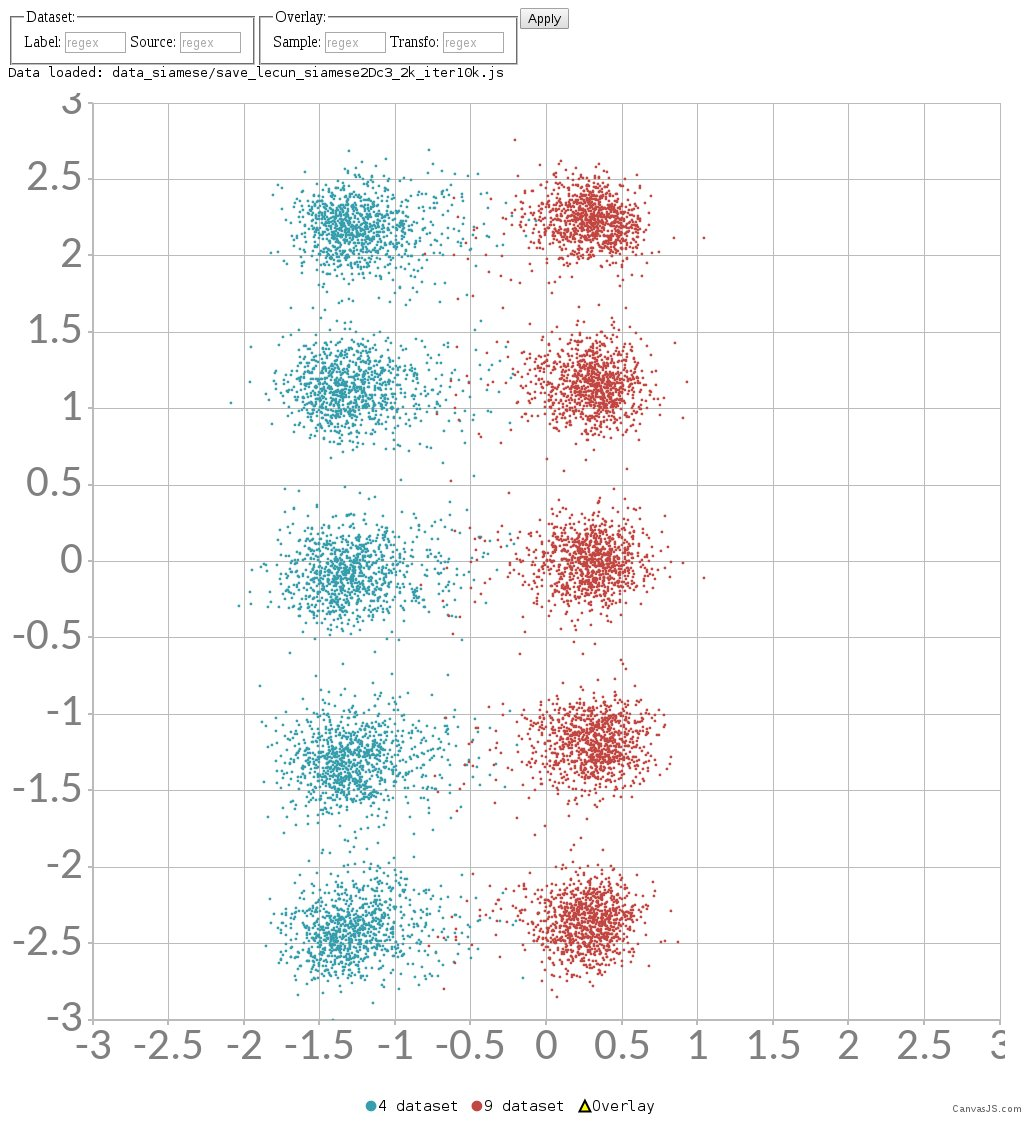
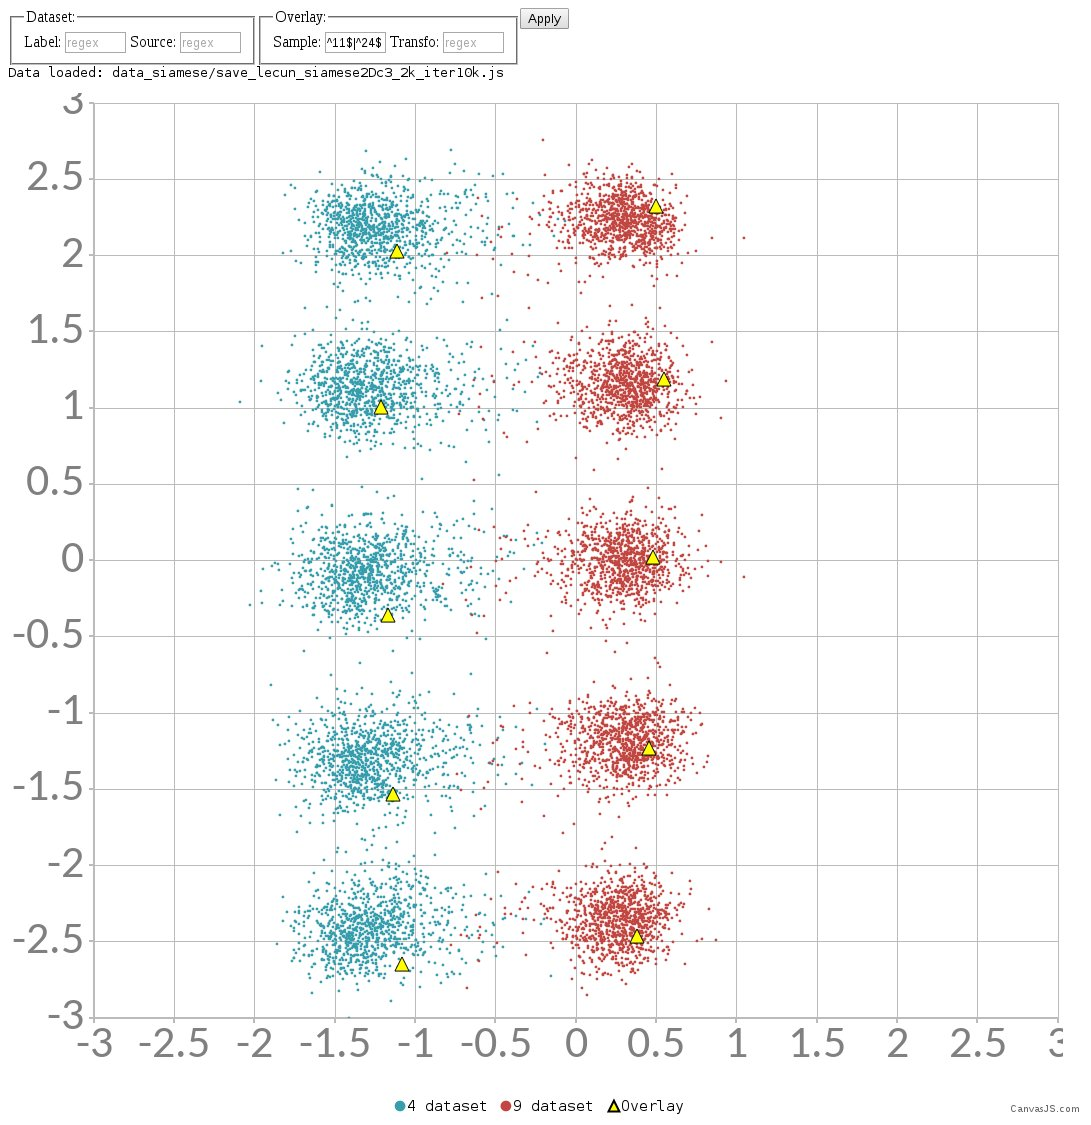
thesis

diff --git a/report/thesis.tex b/report/thesis.tex
@@ -13,7 +13,7 @@
 \usepackage{graphicx}
 \usepackage{lastpage}
 \usepackage{cite}
-\usepackage{hyperref}
+\usepackage[pdftex]{hyperref}
 \usepackage{caption}
 \usepackage{subcaption}
 
@@ -41,11 +41,15 @@
 \rfoot{Page \thepage\ of \pageref{LastPage}}
 \lfoot{\mydate}
 
-\pdfinfo{
-    /Author (\myname)
-    /Title (\mytitle)
-    /Subject (\mysubtitle)
-    }
+\makeatletter
+\AtBeginDocument{
+  \hypersetup{
+    pdfauthor = {\myname},
+    pdftitle = {\mytitle},
+    pdfsubject = {\mysubtitle},
+  }
+}
+\makeatother
 
 \newcommand{\eg}{e.g.}
 \setkeys{Gin}{width=0.75\textwidth}
@@ -695,7 +699,7 @@ Then t-SNE is impacted by clustering translations first, then digits as its seco
 One important insight is that t-SNE represents hierarchal structures with decreasing importance due to its optimization formulation thus the most discriminative features would be weighted more.
 % FIXME: check this claim
 
-We found these results are unexpected: the clusters are not well separated and they are lacking in coherence.
+We consider these results unexpected: the clusters are not well separated and they are lacking in coherence even though the task require to separate the digits.
 This experiment is meant to create an invariant model for classification but the representation of the fingerprint doesn't naturally split digits and translations into different axes.
 We have to repeat again that t-SNE is oriented towards visualization whose goal is not formally and universally well defined.
 The current formulation of this method is to preserve distances between the fingerprints of our models which is not sufficient for our application.
@@ -727,16 +731,21 @@ To compare with our reference results, we train for each one a network in the or
 \end{figure*}
 
 The first dataset is a subset of MNIST containing only 4s and 9s digits which we derive our training and testing set based on our 2D pairing strategy.
+Therefore the resulting dataset is composed of each sample plus its translations (±3, ±6 pixels) which is then paired.
+The models are trained until the loss on the respective testset has attained a reasonable local minima.
 After around $100$ iterations, both models have reasonably converged to a stable solution (see figure \ref{fig:mnist_cl2d_loss}).
-However, our model has reached a lower solution than DrLIM: comparing them directly is not possible because the two datasets are different but the difference in the loss is more important and converge as quickly in our case.
+However, our model has reached a lower solution than DrLIM: comparing them directly is not possible because the two datasets are different but the difference in the loss in our model is more important and converge as quickly.
+Intuitively this means that our problem formulation is easier to solve and the model finds a ``better'' solution, in the sense it could satisfy more our constraints.
 The resulting embedding are shown in figures: \ref{fig:mnist_cl_drlim} for DrLIM and \ref{fig:mnist_cl2d} for our model.
-%show plot embedding on test set. see figure \ref{fig:mnist_cl2d}.
-%give loss function, graph?
-describe clusters, well separated.
-coherent embedding inside clusters.
-converge faster?
-compare DrLIM and ours.
-give quantitative results.
+The DrLIM embedding we reproduced is very similar to the excepted result of having a coherent grouping based on translation-agnostic similarity, however the separation between digits is more pronounced.
+We can look at the DrLIM as a top-down projection of our 3D embedding in 2D where the additional vertical dimension quantify the displacement.
+The different intensity of translations are well separated into their own cluster as demonstrated by a meticulous manual inspection and remarkably they are ordered vertically by their intensity.
+Once again, the space inside clusters is well organized by digit features like DrLIM.
+
+In order to compare the two methods, we present quantitative measures where the contrastive loss is computed on the DrLIM paired testset as described in the methodology.
+Evolutions of this measure during training are plotted in figure \ref{fig:loss_test_common} and the final losses after 10'000 iterations are: $0.160023$ (DrLIM) and 0.145418 (our model).
+These two loss series are statistically indistinguishable validated by the null hypothesis with a t-test with $\alpha = 0.05$.
+Therefore we can conclude our model learns an equivalent representation in its 2D digit-projection to DrLIM with a slightly different formulation and it can expresses distortions without loosing information in its 3rd dimension at the same time.
 
 \begin{figure}[t]
     \centering
@@ -747,19 +756,39 @@ give quantitative results.
 
 \begin{figure*}[t]
     \centering
-    \begin{subfigure}[t]{0.75\textwidth}
+    \begin{subfigure}[t]{0.7\textwidth}
         \centering
         \includegraphics{thesis_figures/mnist_cl2d.jpg}
-        %\caption{Scatter plot of the embedding}
+        \caption{Scatter plot of the embedding with two samples' distortions shown as triangles.}
     \end{subfigure}
-    \begin{subfigure}[t]{0.75\textwidth}
+    \begin{subfigure}[t]{0.7\textwidth}
         \centering
         \includegraphics{thesis_figures/mnist_cl2d2.jpg}
-        %\caption{Scatter plot of the embedding with some samples}
+        \caption{Scatter plot of the embedding with some samples}
     \end{subfigure}
     \caption{Plot of the embedding of our network on the MNIST data-augmented test set projected in 2D.}
     \label{fig:mnist_cl2d}
 \end{figure*}
+
+\begin{figure}[t]
+    \begin{center}
+        \includegraphics{thesis_figures/final_loss_test2bv7.jpg}
+    \end{center}
+    \caption{Quantitative measures of DrLIM and our model during training iterations (MNIST)}
+    \label{fig:loss_test_common}
+\end{figure}
+
+We tested our model on a data-augmentation of MNIST based on rotations as well.
+The results are similar to our previous experiment and we only provide the figure for demonstration as we won't discuss it in details.
+Clusters are still arranged in a linear fashion although rotations are non-linear but the cluster separations are smaller, see figure \ref{fig:mnist_cl2d_rotate}.
+
+\begin{figure}[t]
+    \begin{center}
+        \includegraphics{thesis_figures/mnist_cl2d_rotate.jpg}
+    \end{center}
+    \caption{Scatter plot of our model embedding applied to rotations (MNIST)}
+    \label{fig:mnist_cl2d_rotate}
+\end{figure}
 
 train siamese network with contrastive on subset norb with plane.
 show plot embedding on test set.
